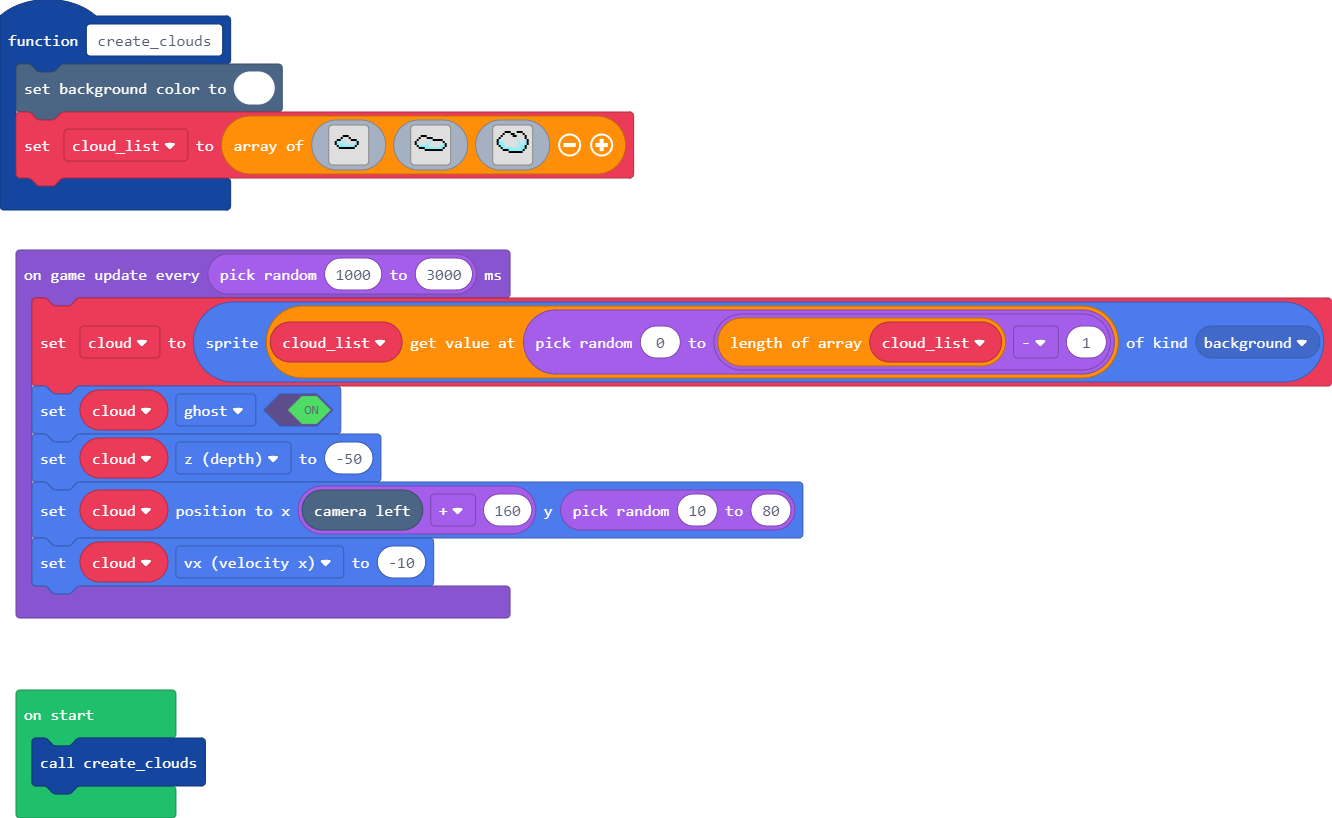
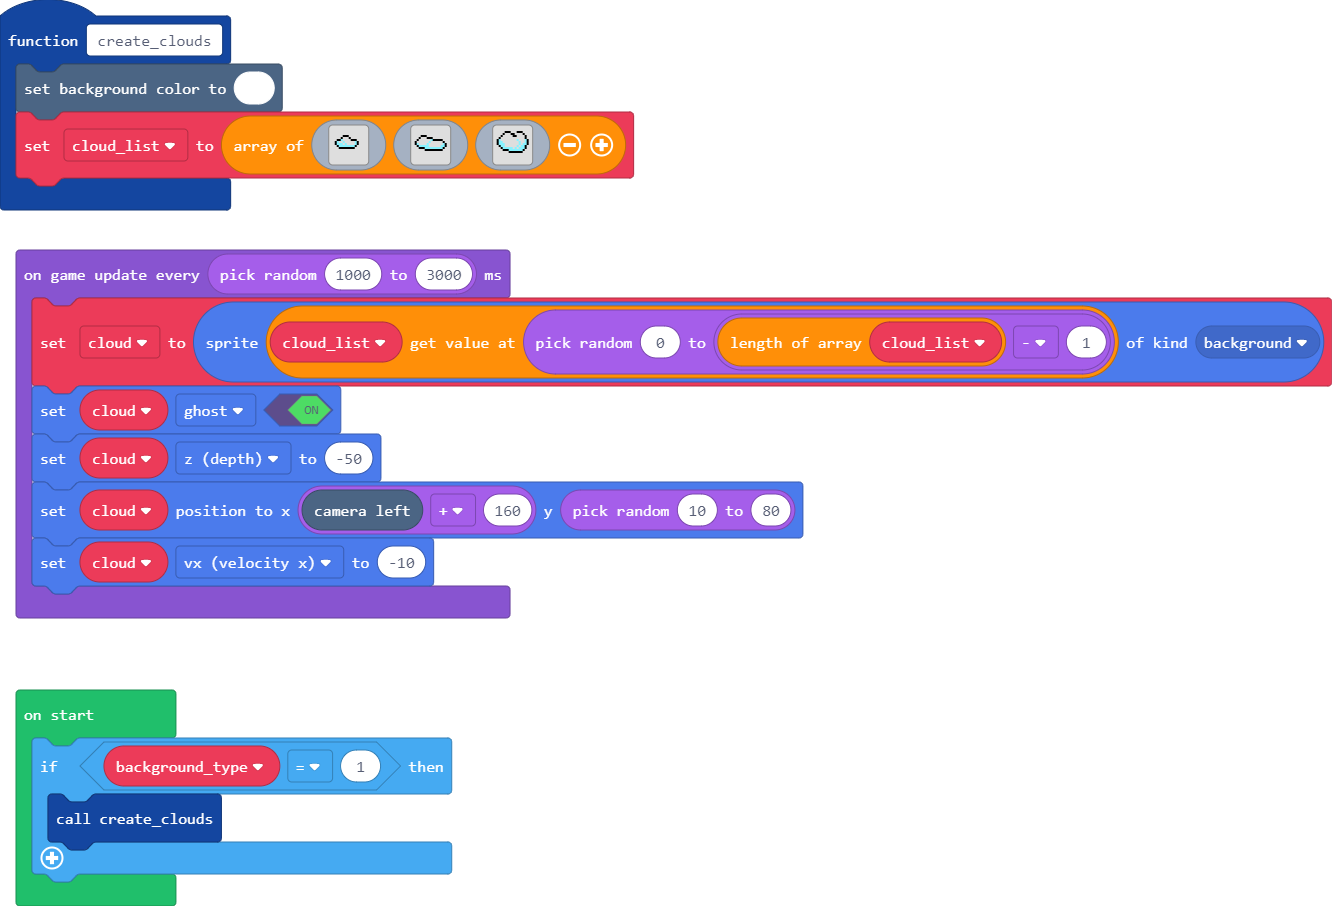
Update main.blocks, main.ts

diff --git a/main.ts b/main.ts
@@ -58,7 +58,10 @@ f 9 9 9 . . . . . . . 9 . 9 9 f
 }
 let cloud: Sprite = null
 let cloud_list: Image[] = []
-create_clouds()
+let background_type = 0
+if (background_type == 1) {
+    create_clouds()
+}
 game.onUpdateInterval(Math.randomRange(1000, 3000), function () {
     cloud = sprites.create(cloud_list[Math.randomRange(0, cloud_list.length - 1)], SpriteKind.background)
     cloud.setFlag(SpriteFlag.Ghost, true)
